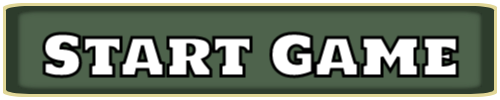
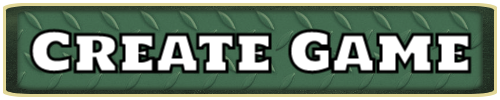
Enhanced buttons and changed background

diff --git a/index.html b/index.html
@@ -4,7 +4,7 @@
         <title>Repair & Conquer</title>
         <meta charset="utf-8" />
     </head>
-    <body style="width: 100%;text-align: center;background: black;margin: 60px 0 0 0;">
+    <body style="width: 100%;text-align: center;background: white;margin: 60px 0 0 0;">
         <script src="src/socket.js"></script>
     </body>
 </html>
